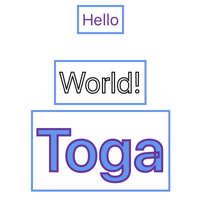
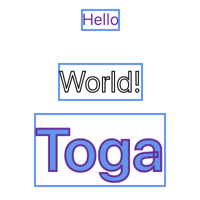
Copy Cocoa text implementation to iOS, and add tests for multi-size baseline alignmnt

Changed region(s): [[0.15, 0.3, 0.87, 0.96], [0.36, 0.0, 0.63, 0.18]]

diff --git a/iOS/src/toga_iOS/widgets/canvas.py b/iOS/src/toga_iOS/widgets/canvas.py
@@ -1,4 +1,5 @@
 from ctypes import POINTER, c_char, cast
+from math import ceil
 
 from rubicon.objc import (
     Block,
@@ -7,6 +8,8 @@ from rubicon.objc import (
     CGSize,
     NSMutableDictionary,
     NSPoint,
+    NSRect,
+    NSSize,
     objc_method,
     objc_property,
 )
@@ -241,27 +244,56 @@ class Canvas(Widget):
         )
         return text_string
 
+    # Although the native API can measure and draw multi-line strings, this makes the
+    # line spacing depend on the scale factor, which messes up the tests.
+    def _line_height(self, font):
+        return ceil(font.native.pointSize * 1.2)  # Common default used by browsers
+
     def measure_text(self, text, font):
         # We need at least a fill color to render, but that won't change the size.
-        rendered_string = self._render_string(text, font, fill_color=color(BLACK))
-        size = rendered_string.size()
-        return size.width, size.height
+        sizes = [
+            self._render_string(line, font, fill_color=color(BLACK)).size()
+            for line in text.splitlines()
+        ]
+        return (
+            ceil(max(size.width for size in sizes)),
+            self._line_height(font) * len(sizes),
+        )
 
     def write_text(self, text, x, y, font, baseline, **kwargs):
-        ascender = font.native.ascender
-        line_height = ascender - font.native.descender + font.native.leading
+        lines = text.splitlines()
+        line_height = self._line_height(font)
+        total_height = line_height * len(lines)
+
         if baseline == Baseline.TOP:
-            top = y
+            top = y + font.native.ascender
         elif baseline == Baseline.MIDDLE:
-            top = y - (line_height / 2)
+            top = y + font.native.ascender - (total_height / 2)
         elif baseline == Baseline.BOTTOM:
-            top = y - line_height
+            top = y + font.native.ascender - total_height
         else:
             # Default to Baseline.ALPHABETIC
-            top = y - ascender
+            top = y
 
-        rendered_string = self._render_string(text, font, **kwargs)
-        rendered_string.drawAtPoint(NSPoint(x, top))
+        for line_num, line in enumerate(lines):
+            # Rounding minimizes differences between scale factors.
+            origin = NSPoint(round(x), round(top) + (line_height * line_num))
+            rs = self._render_string(line, font, **kwargs)
+
+            # "This method uses the baseline origin by default. If
+            # NSStringDrawingUsesLineFragmentOrigin is not specified, the
+            # rectangle’s height will be ignored"
+            #
+            # Previously we used drawAtPoint, which takes a TOP-relative origin. But
+            # this often gave off-by-one errors in ALPHABETIC mode, even when we
+            # attempted to put the baseline on a logical pixel edge. This may be
+            # because drawAtPoint calculates the line height in its own way and then
+            # sets the baseline relative to its bottom
+            # (https://www.sketch.com/blog/typesetting-in-sketch/), but it would be
+            # unwise to rely on that.
+            rs.drawWithRect(
+                NSRect(origin, NSSize(2**31 - 1, 0)), options=0, context=None
+            )
 
     def get_image_data(self):
         renderer = UIGraphicsImageRenderer.alloc().initWithSize(self.native.bounds.size)

diff --git a/testbed/tests/widgets/test_canvas.py b/testbed/tests/widgets/test_canvas.py
@@ -639,19 +639,26 @@ async def test_multiline_text(canvas, probe):
     def caption(baseline):
         return f"{baseline.name.capitalize()}\nTwo\nThree"
 
-    # Default font and size
+    # ALPHABETIC baseline
     y = 30
     guideline.move_to(0, y)
     guideline.line_to(canvas.style.width, y)
     with canvas.context.Fill() as text_filler:
-        # Default baseline (ALPHABETIC)
-        text_filler.write_text("Single line", X[0], y)
+        # Default baseline (ALPHABETIC), with default font and various sizes.
+        x = X[0]
+        for size in [8, 12, 16, 20]:
+            text = f"{size:02d}"
+            font = Font(SYSTEM, size)
+            text_filler.write_text(text, x, y, font)
+            x += canvas.measure_text(text, font)[0] + 5
 
-        # Explicit ALPHABETIC baseline
-        text_filler.write_text(caption(Baseline.ALPHABETIC), X[1], y)
+        # Empty text: this should have no effect on the image, but make sure it's
+        # accepted.
+        text_filler.write_text("", X[1], y)
 
-        # Empty text
-        text_filler.write_text("", X[2], y)
+        # Explicit ALPHABETIC baseline, with default font and size. On most systems,
+        # this will go off the right edge of the canvas.
+        text_filler.write_text(caption(Baseline.ALPHABETIC), X[2], y)
 
     # Other baselines, with default font but specified size
     y = 130
@@ -659,7 +666,7 @@ async def test_multiline_text(canvas, probe):
     guideline.line_to(canvas.style.width, y)
     font = Font(SYSTEM, 12)
 
-    for i, baseline in enumerate(b for b in Baseline if b != Baseline.ALPHABETIC):
+    for i, baseline in enumerate([Baseline.BOTTOM, Baseline.MIDDLE, Baseline.TOP]):
         text = caption(baseline)
         width, height = canvas.measure_text(text, font)
         left = X[i]
@@ -669,8 +676,6 @@ async def test_multiline_text(canvas, probe):
             top = round(y - (height / 2))
         elif baseline == Baseline.BOTTOM:
             top = y - height
-        else:
-            pytest.fail("Unknown baseline")
 
         with canvas.context.Stroke(color=CORNFLOWERBLUE) as box:
             box.rect(left, top, width, height)
